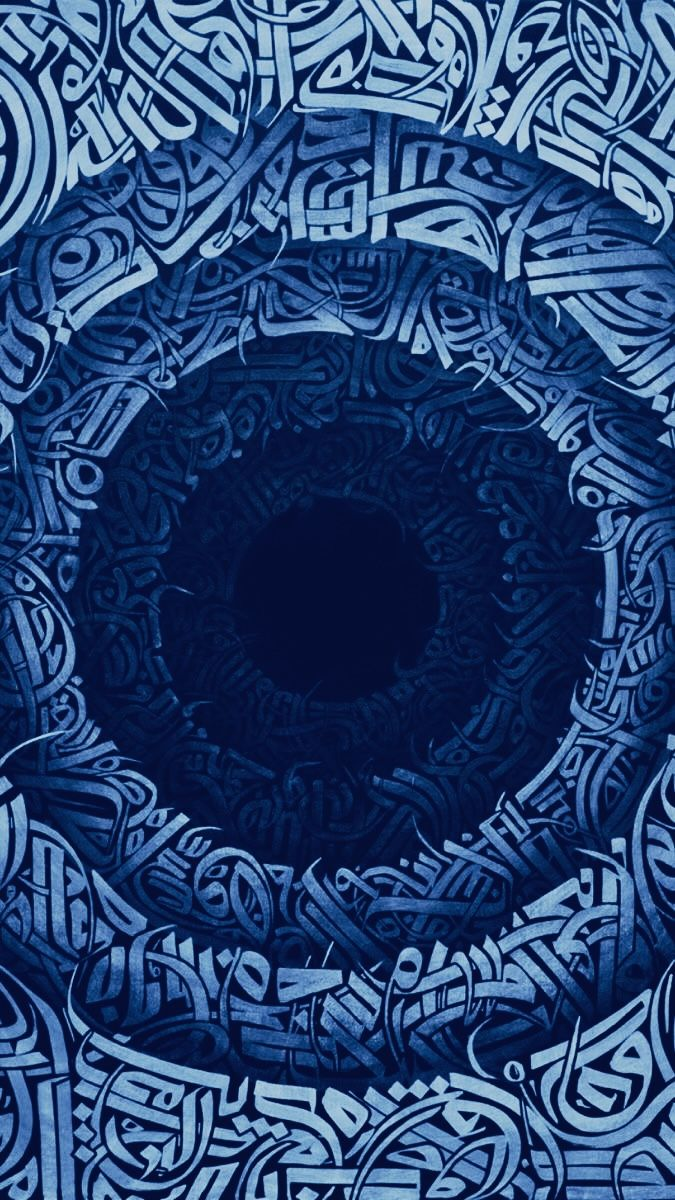
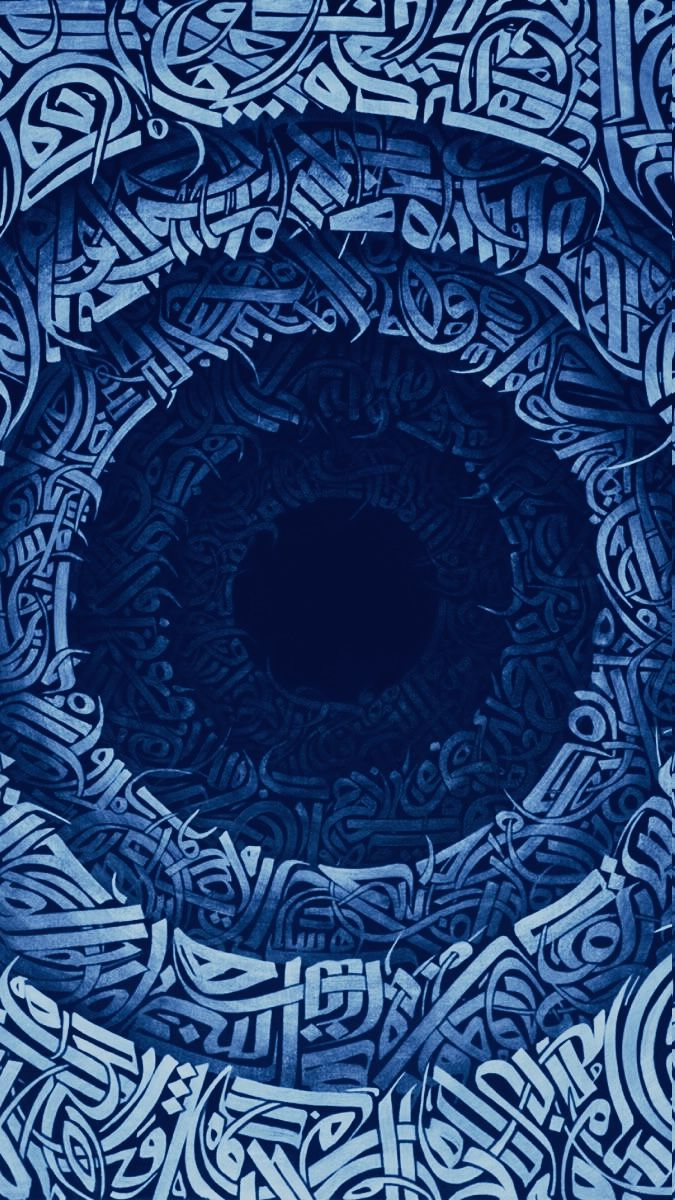
wallpaper animate

diff --git a/index.html b/index.html
@@ -41,6 +41,30 @@
             scroll-margin-top: 96px;
         }
 
+        body {
+            background: radial-gradient(circle at top, rgba(255,255,255,0.06), transparent 28%), linear-gradient(rgba(17,24,39,0.96), rgba(17,24,39,0.96));
+        }
+
+        #background-rotator {
+            position: fixed;
+            inset: 0;
+            width: 100%;
+            height: 100%;
+            background: url('wall2.jpeg') center center / cover no-repeat;
+            transform-origin: center center;
+            will-change: transform;
+            opacity: 0.28;
+            pointer-events: none;
+        }
+
+        #background-rotator::after {
+            content: '';
+            position: absolute;
+            inset: 0;
+            background: linear-gradient(180deg, rgba(17,24,39,0.18), rgba(17,24,39,0.9));
+            pointer-events: none;
+        }
+
         .mobile-nav-panel {
             display: none;
             width: 100%;
@@ -75,7 +99,8 @@
         }
     </style>
 </head>
-<body class="bg-quranDark text-gray-100 font-sans antialiased selection:bg-islamicGreen selection:text-quranDark" style="background: linear-gradient(rgba(17,24,39,0.9), rgba(17,24,39,0.9)), url('wall2.jpeg') center/cover no-repeat fixed;">
+<body class="bg-quranDark text-gray-100 font-sans antialiased selection:bg-islamicGreen selection:text-quranDark">
+        <div id="background-rotator" class="fixed inset-0 -z-10 pointer-events-none overflow-hidden"></div>
 
     <!-- Top Banner: Shahada 
     <div class="border-b border-quranBorder bg-quranDark/50 backdrop-blur sticky top-0 z-50">
@@ -386,7 +411,7 @@
     <!-- Simple Minimalist Footer -->
     <footer class="border-t border-quranBorder mt-24 bg-quranCard/20">
         <div class="max-w-6xl mx-auto px-4 py-8 text-center text-xs text-gray-500 space-y-2">
-            <p>© 2026 Deen Connection. Built cleanly with inspiration from classic spiritual platforms.</p>
+            <p>© 2026 Deen Connection.</p>
             <p class="text-gray-600">Rooted firmly in justice, accountability, and pristine traditional family ethics.</p>
         </div>
     </footer>
@@ -430,6 +455,30 @@
                 if(icon) icon.classList.add('open');
             }
         }
+
+        const backgroundRotator = document.getElementById('background-rotator');
+        let isTicking = false;
+
+        function updateBackgroundRotation() {
+            if (!backgroundRotator) return;
+            const scrollTop = window.scrollY;
+            const maxScroll = document.documentElement.scrollHeight - window.innerHeight;
+            const progress = maxScroll > 0 ? scrollTop / maxScroll : 0;
+            const degrees = progress * 360;
+            backgroundRotator.style.transform = `rotate(${degrees}deg) scale(1.08)`;
+        }
+
+        window.addEventListener('scroll', () => {
+            if (!isTicking) {
+                window.requestAnimationFrame(() => {
+                    updateBackgroundRotation();
+                    isTicking = false;
+                });
+                isTicking = true;
+            }
+        });
+
+        updateBackgroundRotation();
     </script>
 </body>
 </html>